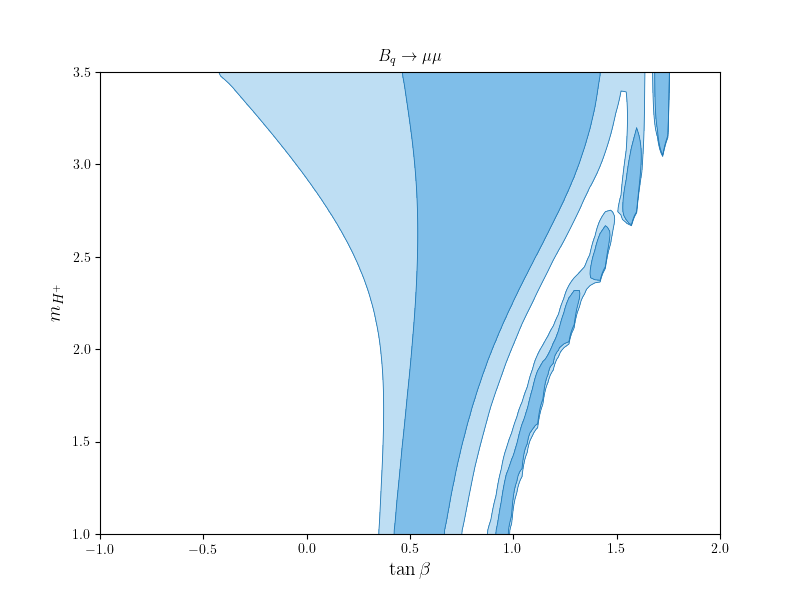
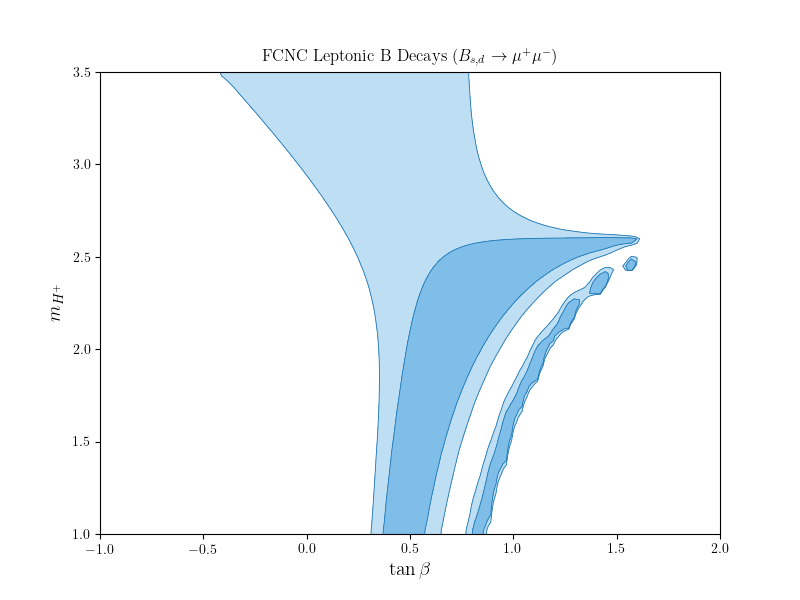
fixed a typo in R(D), made some images

diff --git a/repl-glob.py b/repl-glob.py
@@ -111,14 +111,8 @@ print("Maximum value of tanb is:", maxt)
 plt.figure(figsize=(8,6))
 fpl.contour(**cdat, # data
         interpolation_factor=3) # smoothing out the contour in another way than steps
-#plt.title(r'$B\to X_s\gamma$')
-#plt.title(r'$B_q\to\mu\mu$')
-#plt.title(r'$M\to l\nu$')
-#plt.title(r'Combined $B_q\to\mu\mu$ and $B\to X_s\gamma$')
+plt.title(r'All Observables')
 plt.xlabel(r'$\tan\beta$') # log10
 plt.ylabel(r'$m_{H^+}$') #log10
-#plt.savefig('bsgamma_plot.png')
-#plt.savefig('bmumu_plot.png')
-#plt.savefig('comb_plot.png')
-#plt.savefig('mlnu_plot.png')
-plt.show()
+plt.savefig('comb_plot.png')
+#plt.show()

diff --git a/functions.py b/functions.py
@@ -285,7 +285,7 @@ def rat_d(par,ml,tanb,mH):
     '''
     ml, mc, mb = par[ml], par['m_c'], par['m_b']
     Gf, vev = par['GF'], par['vev']
-    csl = ml*mc/(Gf*vev*mH**2)
-    csr = (ml*mb*tanb**2)/(Gf*vev*mH**2)
+    csl = ml*mc/(np.sqrt(2)*Gf*(vev*mH**2))
+    csr = (ml*mb*tanb**2)/(np.sqrt(2)*Gf*(vev*mH**2))
 
     return csl, csr

diff --git a/README.md b/README.md
@@ -17,7 +17,8 @@ _Research extension from [4th Year project](https://github.com/mbr-phys/cpviolat
 - [x] Switch from manual running top quark calculation to using flavio's running 
 - [ ] Add B mixing - _waiting on operator interpretation from Alex_
 - [x] Add R(D), R(Dst) 
-- [ ] Find out issues with `RKpi(P+->munu)` at low mH+, it's going all funky right now
+- [ ] Look into `RKpi(P+->munu)`, it's going all funky right now - maybe errors in FFs?
+- [ ] `Bs->mumu` also seems to have some weird issues at 1 sigma that I want to check - errors might be a bit tight
 - [ ] Finish adding to `world_avgs.yml`
 - [ ] Add `vev`, `lambda_QCD` and any other new nuisance parameters to the `parameter_x.yml` files in `flavio/data`
 
